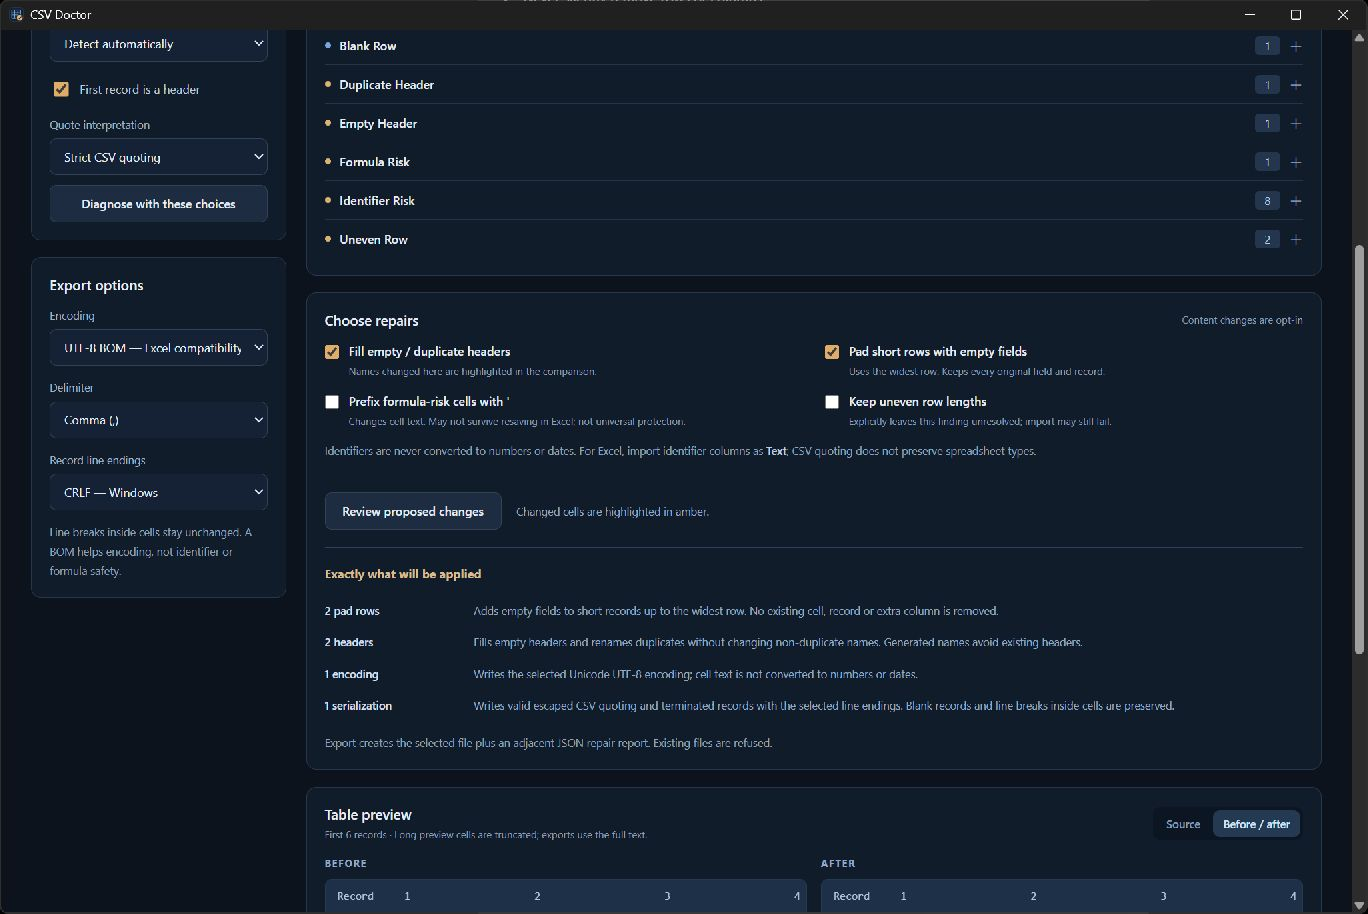
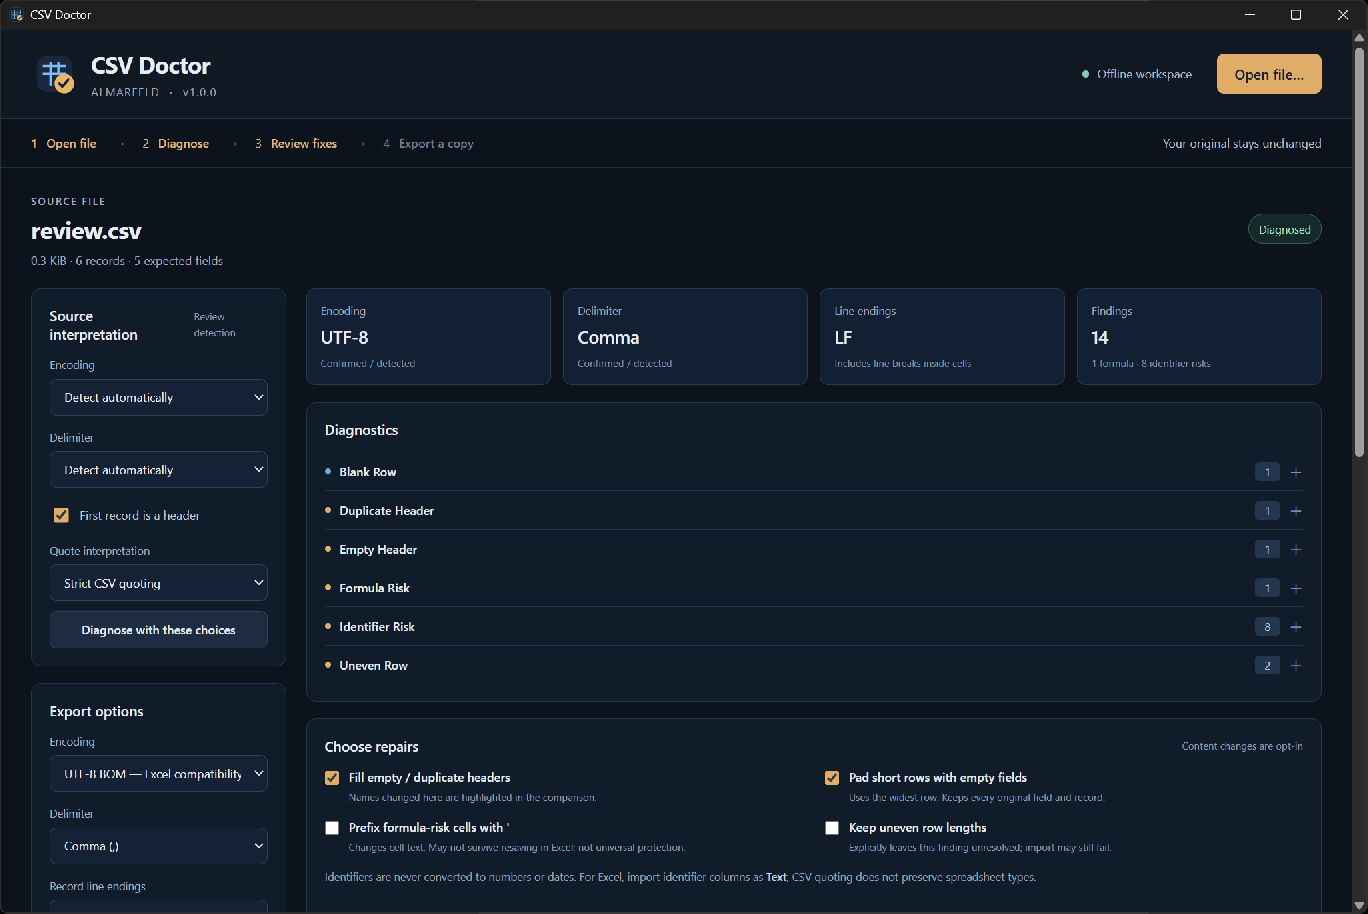
Finalize v1.0.0 release wording

diff --git a/frontend/src/main.ts b/frontend/src/main.ts
@@ -21,10 +21,10 @@ let source: Document | null = null,
   review: ReviewResult | null = null,
   busy = false,
   view: "source" | "comparison" = "source";
-root.innerHTML = `<header class="topbar"><div class="brand">${icon}<div><strong>CSV Doctor</strong><span>ALMARFELD <i>·</i> v1.0.0 candidate</span></div></div><span class="offline"><b></b> Offline workspace</span><button id="open" class="primary">Open file…</button></header>
+root.innerHTML = `<header class="topbar"><div class="brand">${icon}<div><strong>CSV Doctor</strong><span>ALMARFELD <i>·</i> v1.0.0</span></div></div><span class="offline"><b></b> Offline workspace</span><button id="open" class="primary">Open file…</button></header>
 <div class="workflow" aria-label="Workflow"><span class="step active">1 <b>Open file</b></span><i>→</i><span class="step" id="step-diagnose">2 <b>Diagnose</b></span><i>→</i><span class="step" id="step-review">3 <b>Review fixes</b></span><i>→</i><span class="step" id="step-export">4 <b>Export a copy</b></span><span class="guarantee">Your original stays unchanged</span></div>
 <div id="notice" class="notice" role="status" aria-live="polite" hidden></div>
-<main><section id="empty" class="empty"><div class="large-icon">${icon}</div><p class="eyebrow">DELIMITED TEXT, WITHOUT THE GUESSWORK</p><h1>Check your CSV before importing it.</h1><p class="lead">Find broken rows, quoting problems and spreadsheet risks.<br>Review every proposed change, then export a new copy.</p><button id="open-empty" class="primary">Open CSV, TSV or TXT…</button><p class="drop-hint">Or drop one file anywhere in this window</p><div class="empty-features"><span>Text stays text</span><span>No uploads or accounts</span><span>Originals never overwritten</span></div><p class="limits">v1 candidate · Files up to 16 MiB · 100,000 records · 256 columns</p></section>
+<main><section id="empty" class="empty"><div class="large-icon">${icon}</div><p class="eyebrow">DELIMITED TEXT, WITHOUT THE GUESSWORK</p><h1>Check your CSV before importing it.</h1><p class="lead">Find broken rows, quoting problems and spreadsheet risks.<br>Review every proposed change, then export a new copy.</p><button id="open-empty" class="primary">Open CSV, TSV or TXT…</button><p class="drop-hint">Or drop one file anywhere in this window</p><div class="empty-features"><span>Text stays text</span><span>No uploads or accounts</span><span>Originals never overwritten</span></div><p class="limits">Files up to 16 MiB · 100,000 records · 256 columns</p></section>
 <div id="loaded" hidden><section class="filebar"><div><span class="eyebrow">SOURCE FILE</span><h1 id="filename"></h1><p id="file-info"></p></div><span id="parse-status" class="badge"></span></section>
 <div class="workspace"><aside><section class="panel"><div class="panel-heading"><h2>Source interpretation</h2><span class="tiny">Review detection</span></div><label for="input-encoding">Encoding</label><select id="input-encoding"><option value="auto">Detect automatically</option><option value="utf8">UTF-8</option><option value="utf8bom">UTF-8 BOM</option><option value="utf16le">UTF-16 little-endian</option><option value="utf16be">UTF-16 big-endian</option><option value="windows1252">Windows-1252</option></select><label for="input-delimiter">Delimiter</label><select id="input-delimiter"><option value="auto">Detect automatically</option><option value=",">Comma (,)</option><option value=";">Semicolon (;)</option><option value="\t">Tab</option><option value="|">Pipe (|)</option></select><label class="check"><input id="has-header" type="checkbox" checked> First record is a header</label><label for="quote-mode">Quote interpretation</label><select id="quote-mode"><option value="strict">Strict CSV quoting</option><option value="literal">Treat quotes as literal text</option></select><p id="literal-warning" class="caution" hidden>Explicit interpretation: quotes become ordinary characters and every line becomes a record. Multiline quoted cells may split. Compare carefully; this does not recover the author's intent.</p><button id="diagnose" class="secondary full">Diagnose with these choices</button></section>
 <section class="panel"><div class="panel-heading"><h2>Export options</h2></div><label for="output-encoding">Encoding</label><select id="output-encoding"><option value="utf8bom">UTF-8 BOM — Excel compatibility</option><option value="utf8">UTF-8</option></select><label for="output-delimiter">Delimiter</label><select id="output-delimiter"><option value=",">Comma (,)</option><option value=";">Semicolon (;)</option><option value="\t">Tab</option><option value="|">Pipe (|)</option></select><label for="output-ending">Record line endings</label><select id="output-ending"><option value="\r\n">CRLF — Windows</option><option value="\n">LF</option></select><p class="help">Line breaks inside cells stay unchanged. A BOM helps encoding, not identifier or formula safety.</p></section></aside>

diff --git a/internal/doctor/files.go b/internal/doctor/files.go
@@ -28,14 +28,14 @@ func ReadFile(path string) ([]byte, error) {
 		return nil, fmt.Errorf("Choose a regular text file")
 	}
 	if st.Size() > MaxBytes {
-		return nil, fmt.Errorf("The selected file exceeds the 16 MiB candidate limit")
+		return nil, fmt.Errorf("The selected file exceeds the 16 MiB limit")
 	}
 	data, err := io.ReadAll(io.LimitReader(f, MaxBytes+1))
 	if err != nil {
 		return nil, err
 	}
 	if len(data) > MaxBytes {
-		return nil, fmt.Errorf("The selected file exceeds the 16 MiB candidate limit")
+		return nil, fmt.Errorf("The selected file exceeds the 16 MiB limit")
 	}
 	return data, nil
 }

diff --git a/internal/doctor/encoding.go b/internal/doctor/encoding.go
@@ -12,7 +12,7 @@ import (
 
 func Decode(data []byte, choice string) (string, string, bool, error) {
 	if len(data) > MaxBytes {
-		return "", "", false, fmt.Errorf("This candidate supports files up to 16 MiB. No file was changed")
+		return "", "", false, fmt.Errorf("CSV Doctor supports files up to 16 MiB. No file was changed")
 	}
 	if bytes.HasPrefix(data, []byte{0xff, 0xfe, 0, 0}) || bytes.HasPrefix(data, []byte{0, 0, 0xfe, 0xff}) {
 		return "", "", false, fmt.Errorf("UTF-32 is not supported; convert it explicitly in another tool")

diff --git a/internal/doctor/parser.go b/internal/doctor/parser.go
@@ -41,7 +41,7 @@ func Parse(text, delim, mode string) ([]Row, error) {
 		rows = append(rows, Row{Cells: cells, Line: start, Blank: recordStart == end})
 		cells = nil
 		if len(rows) > MaxRows {
-			return fmt.Errorf("This candidate supports at most 100,000 records")
+			return fmt.Errorf("CSV Doctor supports at most 100,000 records")
 		}
 		return nil
 	}

diff --git a/README.md b/README.md
@@ -4,9 +4,9 @@
 
 An offline Windows utility from ALMARFELD for CSV, TSV and delimited TXT files. Find structural problems and spreadsheet-import risks before opening data in Excel or another application.
 
-**Status: functional v1.0.0 candidate. No public release has been published.**
+**CSV Doctor v1.0.0**
 
-![Real CSV Doctor candidate: explicit repair choices and reviewed changes on synthetic data](docs/review.jpg)
+![Real CSV Doctor: explicit repair choices and reviewed changes on synthetic data](docs/review.jpg)
 
 ## What it does
 
@@ -38,13 +38,13 @@ Formula-risk detection covers `=`, `+`, `-`, `@`, leading whitespace/control cha
 
 References: [Microsoft: UTF-8 CSV import](https://support.microsoft.com/en-us/excel/opening-csv-utf-8-files-correctly-in-excel), [OWASP: CSV injection](https://community.owasp.org/attacks/CSV_Injection).
 
-## Run the candidate
+## Run CSV Doctor
 
 Windows 10/11 x64. Extract the entire portable ZIP into a folder and run **CSVDoctor.exe**. The separate **Microsoft Edge WebView2 Runtime** is required: [official Microsoft download](https://developer.microsoft.com/microsoft-edge/webview2/). Nothing installs automatically. The binaries are not Authenticode signed; Windows may show a reputation warning. Do not disable Windows security.
 
 Open one `.csv`, `.tsv` or `.txt`, or drop it onto the window. Diagnose the source, choose only the needed changes, review the comparison, then export a new copy and report. The first record is treated as a header by default; turn that option off and diagnose again for headerless data.
 
-## Candidate limits
+## Limits
 
 - 16 MiB input; 100,000 records; 256 fields per record; 1,000,000 cells total. Limits block export rather than truncate the saved data.
 - Preview: first 100 records, first 2,000 bytes per cell, first 200 finding locations. Export uses the full parsed data. Detection compares up to the first 200 nonblank records.

diff --git a/SECURITY.md b/SECURITY.md
@@ -4,4 +4,4 @@ Report vulnerabilities privately to security@almarfeld.com. Do not attach person
 
 CSV Doctor reads local data and does not evaluate formulas or launch content from cells. Optional formula prefixes are not universal protection against spreadsheet formula execution. No revocation/security scan or Authenticode signing is provided. Keep Windows, WebView2 and spreadsheet applications updated independently.
 
-The v1 candidate applies explicit size/record/field limits, requires successful parsing before export, and refuses existing destination files. Changes should retain these guarantees and be covered by regression tests.
+CSV Doctor applies explicit size/record/field limits, requires successful parsing before export, and refuses existing destination files. Changes should retain these guarantees and be covered by regression tests.

diff --git a/docs/VALIDATION.md b/docs/VALIDATION.md
@@ -1,4 +1,4 @@
-# Candidate validation
+# Validation
 
 Validated on Windows x64 with Node 22.23.3, Go 1.27.0 and Wails 2.16.0.
 
@@ -14,4 +14,4 @@ Automated tests additionally cover all four delimiters, UTF-8/BOM/UTF-16/Windows
 
 Not yet independently verified: drag-and-drop using Explorer, behavior on a machine without WebView2, taskbar/Alt+Tab icon inspection and a fully network-isolated environment. No host dependencies or network/security settings were removed or changed to simulate those conditions.
 
-This is a functional candidate, not a published release. Binaries are not Authenticode signed. No website product page or WinGet package is created.
+Binaries are not Authenticode signed. No website product page or WinGet package is created.

diff --git a/RELEASE_NOTES.md b/RELEASE_NOTES.md
@@ -1,6 +1,4 @@
-# v1.0.0 candidate
-
-Not a published release.
+# v1.0.0
 
 - Offline diagnosis and previews for CSV, TSV and delimited TXT.
 - Conservative delimiter/encoding detection with explicit ambiguity handling.
